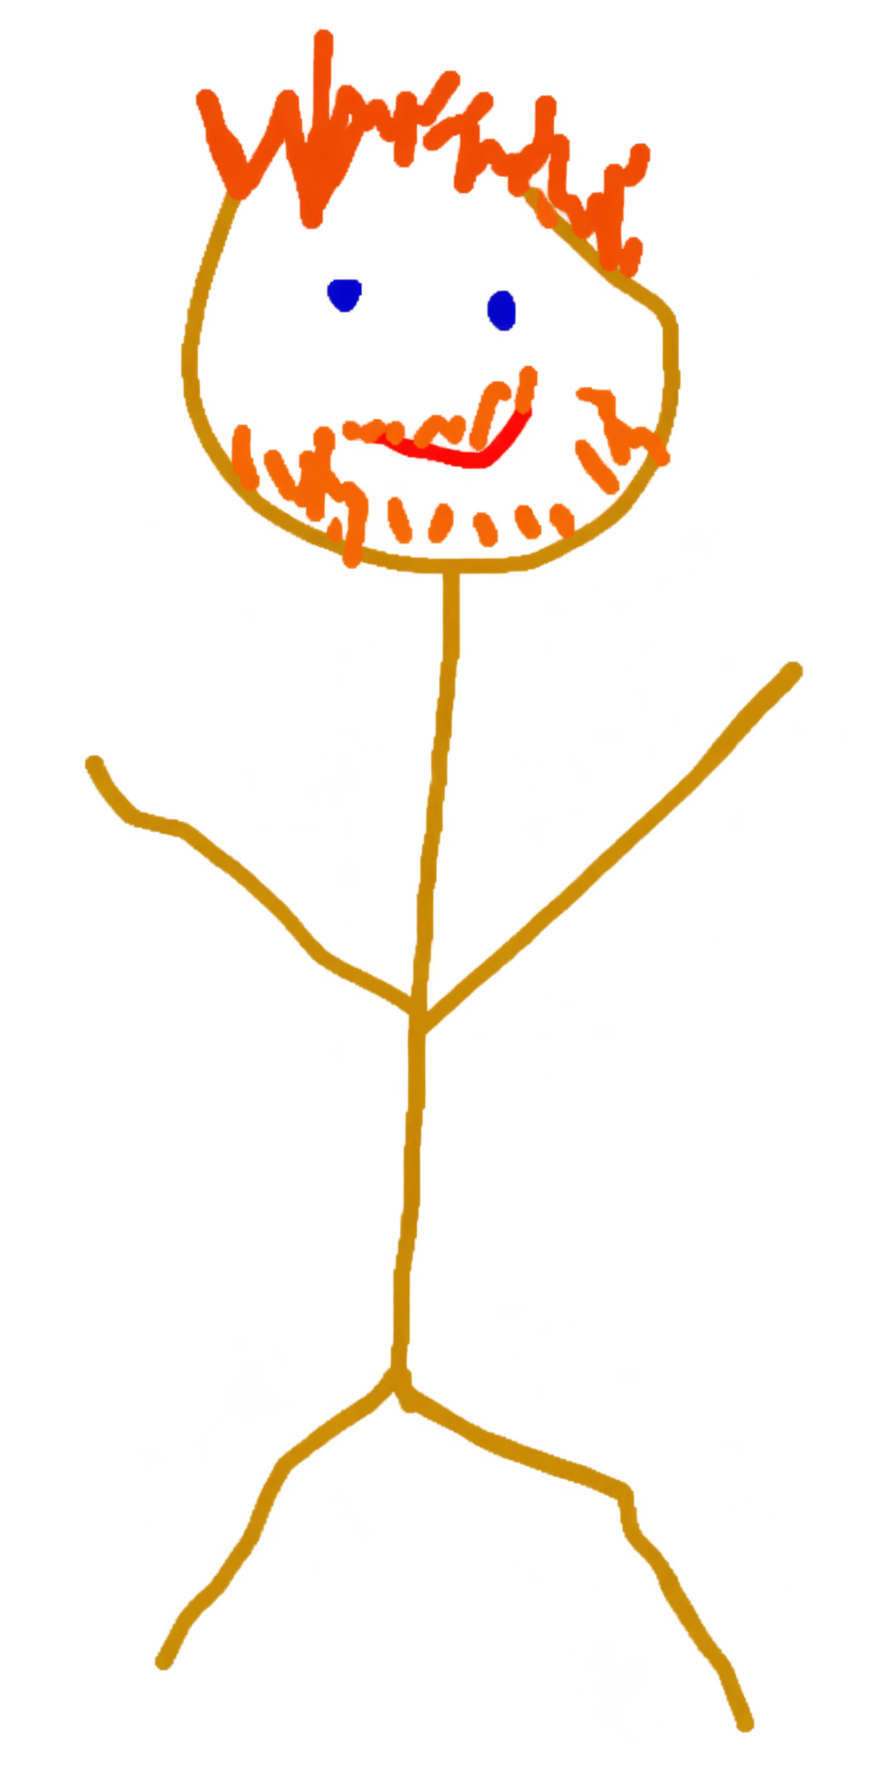
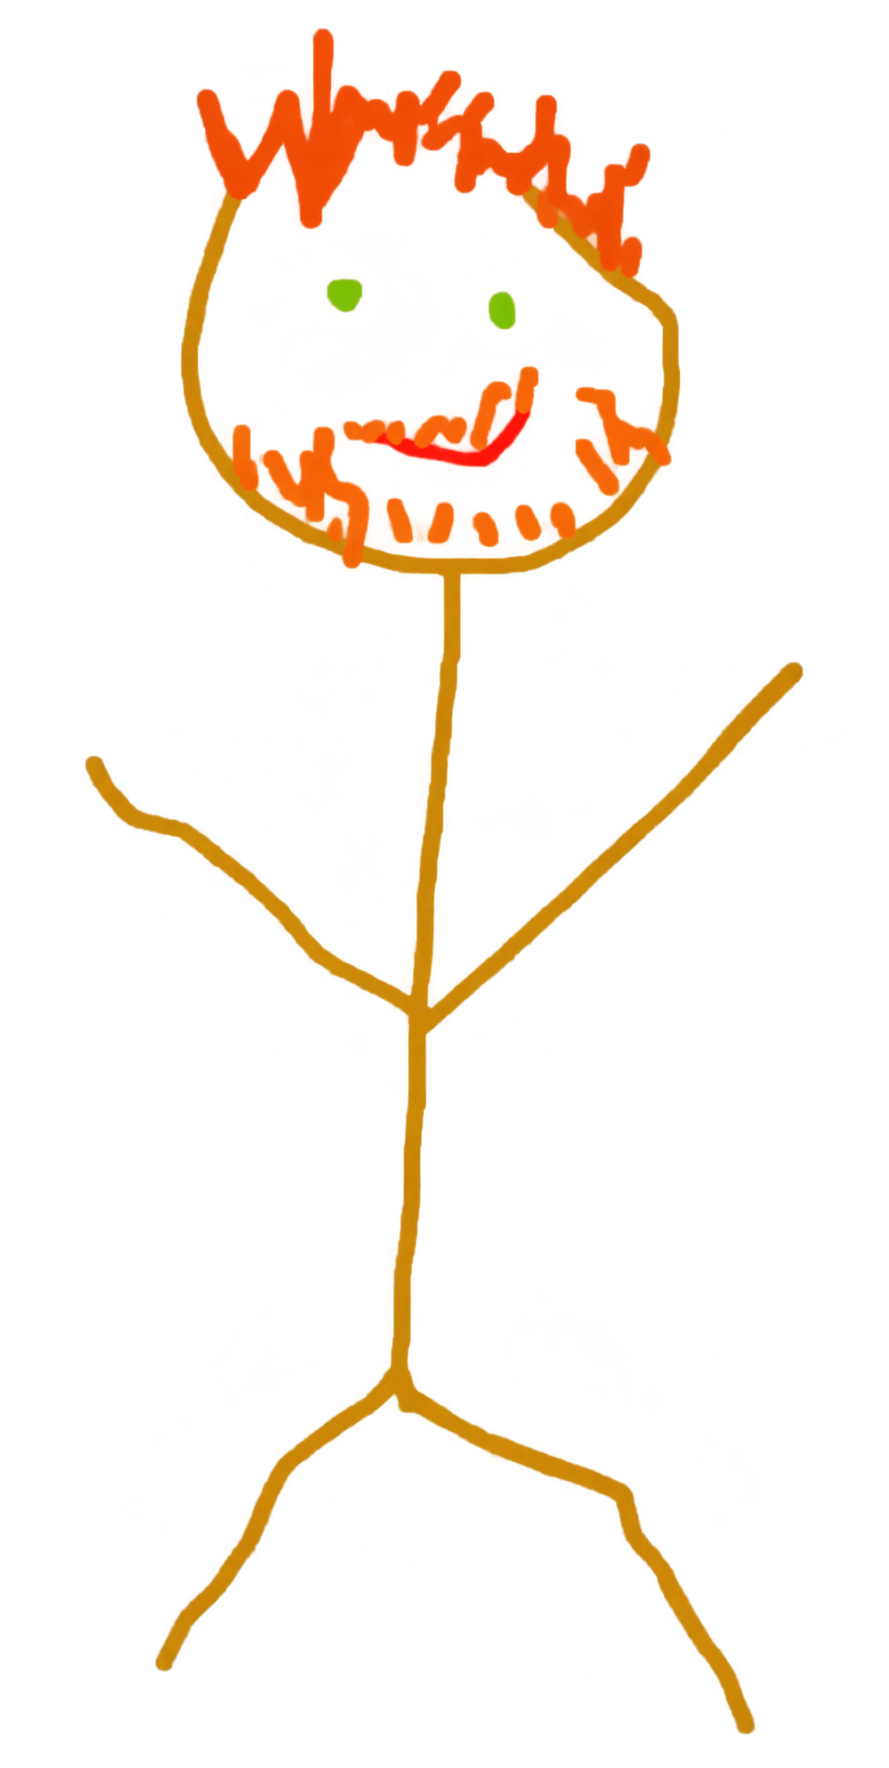
Make Biff's eyes green for contrast on the About page

diff --git a/about.html b/about.html
@@ -16,7 +16,7 @@
 </header>
 <main><section class="page-hero"><div class="container"><div class="breadcrumb">Home / About</div><h1 class="page-title">About TB Toolkit</h1><p class="page-intro">A free player-created project providing Total Battle tools, data, and reference information for the community.</p></div></section><section class="section"><div class="container content-grid">
 <article class="card content-card"><div class="eyebrow">About the site</div><h2>Why TB Toolkit exists</h2><p>TB Toolkit brings useful Total Battle calculators, game data, and planning resources together in one place. The goal is to make common game calculations easier, reduce guesswork, and give players clear information for planning their armies and progression.</p><p>The site is designed for desktop and mobile devices. All tools and public data are free to use, with no subscriptions, premium tools, or paywalls.</p></article>
-<article class="card content-card about-biff-card"><img class="about-biff-drawing" src="assets/images/biff-stick-figure.png" alt="Biff’s hand-drawn stick figure with orange hair and beard, blue eyes, and raised arms." decoding="async"/><div class="eyebrow">About Biff</div><h2>Created by a player</h2><p>Biff is a Total Battle player who enjoys working with data, testing game mechanics, and building tools that make planning and repetitive calculations easier.</p><p>TB Toolkit was created to share those tools and findings with other players. You can use the calculators, explore the reference data, or download the public data from the Resources page to build your own tools.</p></article>
+<article class="card content-card about-biff-card"><img class="about-biff-drawing" src="assets/images/biff-stick-figure.png" alt="Biff’s hand-drawn stick figure with orange hair and beard, green eyes, and raised arms." decoding="async"/><div class="eyebrow">About Biff</div><h2>Created by a player</h2><p>Biff is a Total Battle player who enjoys working with data, testing game mechanics, and building tools that make planning and repetitive calculations easier.</p><p>TB Toolkit was created to share those tools and findings with other players. You can use the calculators, explore the reference data, or download the public data from the Resources page to build your own tools.</p></article>
 </div><div class="section-compact"><div class="notice"><strong>Unofficial fan site.</strong> TB Toolkit is a player-created project and is not affiliated with or endorsed by Scorewarrior.</div></div></section></main>
 <footer class="site-footer">
 <div class="container footer-row">
